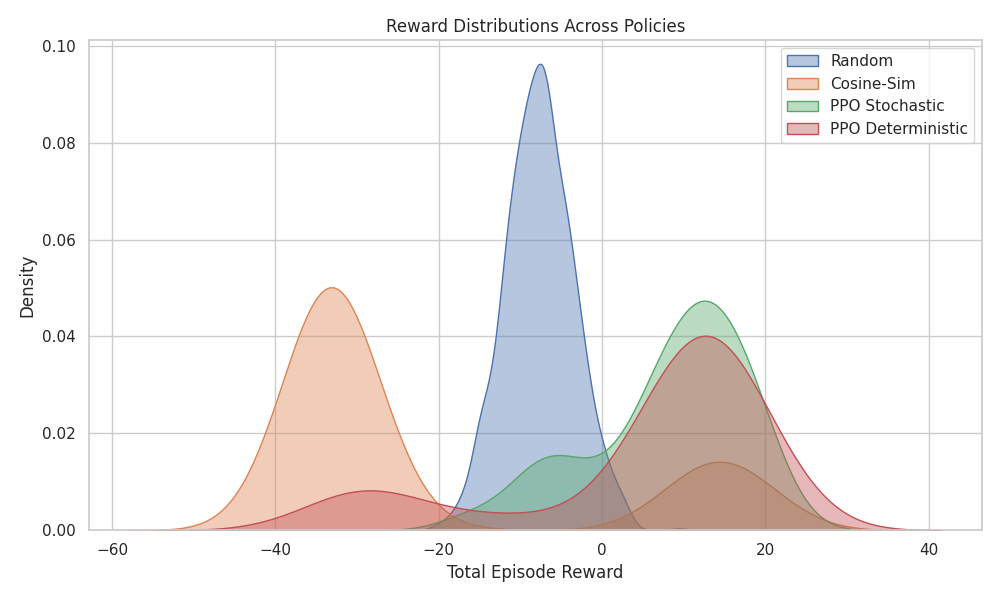
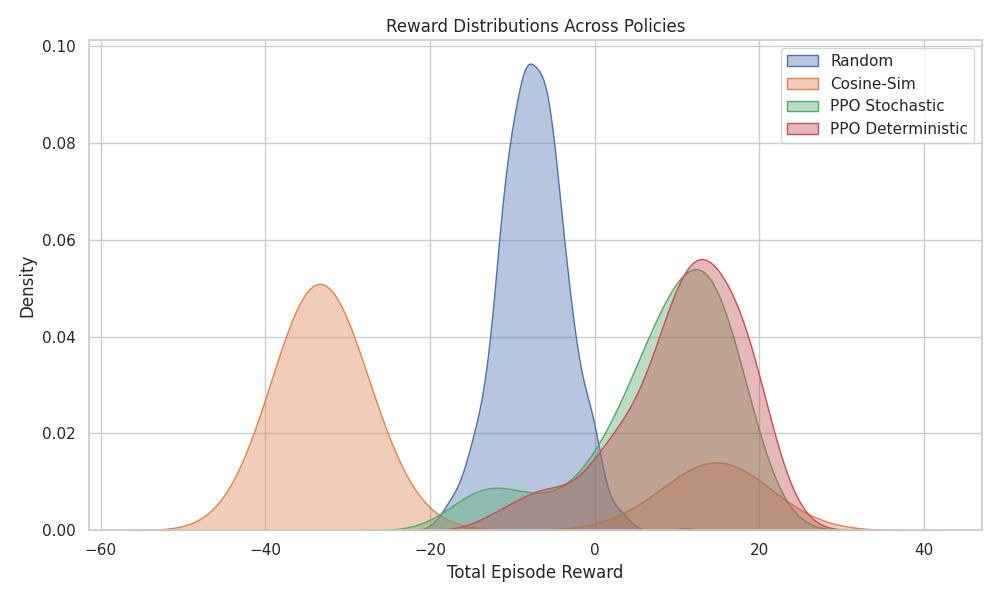
feat: eval grid models

diff --git a/reading_env_eval_grid.py b/reading_env_eval_grid.py
@@ -1,0 +1,140 @@
+import numpy as np
+import matplotlib.pyplot as plt
+import seaborn as sns
+from stable_baselines3 import PPO
+from stable_baselines3.common.evaluation import evaluate_policy
+from stable_baselines3.common.monitor import Monitor
+
+from reading_env import ReadingRecEnvContinuous
+from sqlmodel import Session, create_engine
+from app.services.item_embeddings import get_all_embeddings
+
+# ========================================================
+# Config
+# ========================================================
+MODEL_PATHS = [
+    "training_output_continuous/ppo_reading_rec_1_512.zip",
+    "training_output_continuous/ppo_reading_rec_2_1024.zip",
+    "training_output_continuous/ppo_reading_rec_3_2048.zip",
+]
+
+EVAL_EPISODES = 10000
+
+# ========================================================
+# Load embeddings
+# ========================================================
+engine = create_engine("sqlite:///database.db")
+with Session(engine) as session:
+    reading_embeddings, item_ids = get_all_embeddings(session)
+print("Loaded reading embeddings:", reading_embeddings.shape)
+
+# ========================================================
+# Create evaluation env (wrapped with Monitor)
+# ========================================================
+env = ReadingRecEnvContinuous(reading_embeddings)
+eval_env = Monitor(env)
+
+# ========================================================
+# Function to evaluate one model
+# ========================================================
+def evaluate_one(model_path):
+    print("\n==============================")
+    print(f" Evaluating: {model_path}")
+    print("==============================")
+
+    model = PPO.load(model_path, env=eval_env)
+
+    # Stochastic
+    rewards_sto, _ = evaluate_policy(
+        model, eval_env,
+        n_eval_episodes=EVAL_EPISODES,
+        deterministic=False,
+        return_episode_rewards=True,
+    )
+    rewards_sto = np.array(rewards_sto)
+
+    # Deterministic
+    rewards_det, _ = evaluate_policy(
+        model, eval_env,
+        n_eval_episodes=EVAL_EPISODES,
+        deterministic=True,
+        return_episode_rewards=True,
+    )
+    rewards_det = np.array(rewards_det)
+
+    print(
+        f"Stochastic : {rewards_sto.mean():.3f} ± {rewards_sto.std():.3f}"
+    )
+    print(
+        f"Deterministic : {rewards_det.mean():.3f} ± {rewards_det.std():.3f}"
+    )
+
+    return rewards_sto, rewards_det
+
+
+# ========================================================
+# Evaluate all models
+# ========================================================
+all_rewards = {}  # Dictionary { label: rewards }
+
+for i, path in enumerate(MODEL_PATHS, start=1):
+    r_sto, r_det = evaluate_one(path)
+
+    all_rewards[f"Model_{i}_Stochastic"] = r_sto
+    all_rewards[f"Model_{i}_Deterministic"] = r_det
+
+print("\n===== DONE Evaluation =====")
+
+# ========================================================
+# Plot reward distributions for all 6 versions
+# ========================================================
+# sns.set_theme(style="whitegrid")
+# plt.figure(figsize=(12, 8))
+
+# for label, rewards in all_rewards.items():
+#     sns.kdeplot(
+#         rewards, fill=True, alpha=0, linewidth=1.5, label=label
+#     )
+
+# plt.xlabel("Total Episode Reward")
+# plt.ylabel("Density")
+# plt.title("Reward Distributions for 3 PPO Models (Stochastic & Deterministic)")
+# plt.legend()
+# plt.tight_layout()
+# plt.savefig("reward_distributions_all_models.png", dpi=300)
+# print("\n🎉 Saved plot to reward_distributions_all_models.png")
+
+sns.set_theme(style="whitegrid")
+plt.figure(figsize=(12, 8))
+
+for label, rewards in all_rewards.items():
+    if "Stochastic" in label:
+        sns.kdeplot(
+            rewards, fill=True, alpha=0, linewidth=1.5, label=label
+        )
+
+plt.xlabel("Total Episode Reward")
+plt.ylabel("Density")
+plt.title("Reward Distributions for 3 PPO Models (Stochastic)")
+plt.legend()
+plt.tight_layout()
+plt.savefig("reward_distributions_all_models_stochastic.png", dpi=300)
+print("\n🎉 Saved plot to reward_distributions_all_models_stochastic.png")
+
+
+sns.set_theme(style="whitegrid")
+plt.figure(figsize=(12, 8))
+
+for label, rewards in all_rewards.items():
+    if "Deterministic" in label:
+        sns.kdeplot(
+            rewards, fill=True, alpha=0, linewidth=1.5, label=label
+        )
+
+plt.xlabel("Total Episode Reward")
+plt.ylabel("Density")
+plt.title("Reward Distributions for 3 PPO Models (Deterministic)")
+plt.legend()
+plt.tight_layout()
+plt.savefig("reward_distributions_all_models_deterministic.png", dpi=300)
+print("\n🎉 Saved plot to reward_distributions_all_models_deterministic.png")

diff --git a/test_syntax.py b/test_syntax.py
@@ -1,0 +1,31 @@
+from stable_baselines3 import PPO
+from reading_env import ReadingRecEnvContinuous
+from sqlmodel import Session, create_engine
+from stable_baselines3 import PPO
+from stable_baselines3.common.vec_env import DummyVecEnv
+from stable_baselines3.common.monitor import Monitor
+from app.services.item_embeddings import get_all_embeddings
+
+
+# ---------------------------
+# Load item embeddings
+# ---------------------------
+engine = create_engine("sqlite:///database.db")
+with Session(engine) as session:
+    reading_embeddings, _ = get_all_embeddings(session)
+print(f"reading_embeddings.shape: {reading_embeddings.shape}")
+
+
+# ---------------------------
+# Environment creation
+# ---------------------------
+def make_env():
+    def _init():
+        env = ReadingRecEnvContinuous(reading_embeddings)
+        return Monitor(env)
+    return _init
+
+env = DummyVecEnv([make_env()])
+
+model = PPO("MlpPolicy", env)
+print(model.policy)

diff --git a/reading_env_eval_continuous.py b/reading_env_eval_continuous.py
@@ -10,7 +10,7 @@ from app.services.item_embeddings import get_all_embeddings
 # ---------------------------
 # Parameters
 # ---------------------------
-MODEL_PATH = "./training_output_continuous/ppo_reading_rec_2_1024.zip"
+MODEL_PATH = "./training_output_continuous/ppo_reading_rec_3_2048.zip"
 EVAL_EPISODES = 100
 RANDOM_EVAL_EPISODES = 1000  # reduce for faster evaluation
 
